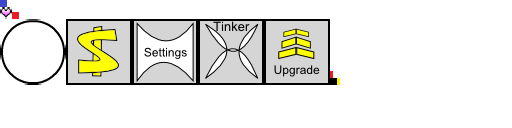
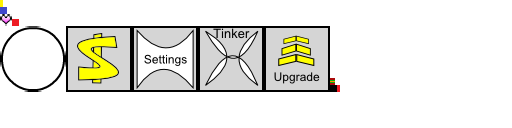
Fixed some stats, and modified some targeting positions. Also fixed upgrading.

Changed region(s): [[0.0, 0.0, 0.6875, 0.7188]]

diff --git a/LibGDXScene2d/my-gdx-game/src/com/me/mygdxgame/Tower.java b/LibGDXScene2d/my-gdx-game/src/com/me/mygdxgame/Tower.java
@@ -114,8 +114,8 @@ public class Tower extends ExtendedActor {
 			
 			if(effects.missileTarget.targetingStrategy == TargetingStrategy.Circle)
 			{
-				((TargetCircle)effects.missileTarget).x1 = (int)targetEnemy.getX();
-				((TargetCircle)effects.missileTarget).y1 = (int) targetEnemy.getY();
+				((TargetCircle)effects.missileTarget).x1 = (int) enemyX;
+				((TargetCircle)effects.missileTarget).y1 = (int) enemyY;
 				m = new Missile(textures.get(3), new Vector2(getX()+getOriginX(), getY()+getOriginY()), new Vector2(enemyX, enemyY), 0.2f, effects);
 			}
 			else if (effects.missileTarget.targetingStrategy == TargetingStrategy.Line)
@@ -132,7 +132,6 @@ public class Tower extends ExtendedActor {
 				int dY = ((TargetLine)effects.missileTarget).y2 - 	((TargetLine)effects.missileTarget).y1;
 				int width = (int)Math.sqrt(Math.pow(dX, 2) + Math.pow(dY, 2)); 
 				m.setWidth(width);
-				m.setHeight(m.getHeight()*2);
 				m.setRotation(this.getRotation());
 			}
 			else if(effects.missileTarget.targetingStrategy == TargetingStrategy.CircleOnSelf)
@@ -155,12 +154,22 @@ public class Tower extends ExtendedActor {
 			return null;
 	}
 	
-	public boolean upgrade(TowerStats newTowerStats)
+	public boolean upgrade(TowerStats newTowerStats, Sprite newTowerSprite, Sprite missileSprite)
 	{	
 		currentLevel++;
 		towerStats = newTowerStats;
 		currentSellPrice += newTowerStats.sellPrice; 
-		//super.setSprite(textures.get(newTowerStats.towerTexture));
+		
+		this.currentSellPrice = towerStats.sellPrice;
+		this.currentReloadTimer = towerStats.reloadTime;
+		this.targetEnemy = null;
+		currentLevel = 1;
+		effects = towerStats.missileEffects;
+		
+		setOrigin(getWidth()/2, getHeight()/2);
+
+		textures.put(3, missileSprite);
+		super.setSprite(newTowerSprite);
 		return true;
 	}
 }

diff --git a/LibGDXScene2d/my-gdx-game/src/com/me/mygdxgame/MyGdxGame.java b/LibGDXScene2d/my-gdx-game/src/com/me/mygdxgame/MyGdxGame.java
@@ -275,6 +275,7 @@ public class MyGdxGame implements ApplicationListener {
         			{
         				stage.addActor(m);
         				missiles.add(m);
+        				m.setZIndex(towers.get(i).getZIndex()-1);
         			}
         		}
         	}
@@ -326,7 +327,7 @@ public class MyGdxGame implements ApplicationListener {
 					}
 					final ExtendedActor visualEffectActor = new ExtendedActor(missiles.get(i).sprite);
 					TargetCircle tC = (TargetCircle)(missiles.get(i).effect.missileTarget);
-					visualEffectActor.setPosition(tC.x1-tC.radius/2, tC.y1 - tC.radius/2);
+					visualEffectActor.setPosition(tC.x1-tC.radius, tC.y1 - tC.radius);
 					visualEffectActor.setWidth(tC.radius*2);
 					visualEffectActor.setHeight(tC.radius*2);
 					visualEffectActor.addAction(sequence(Actions.fadeOut(0.5f), run(new Runnable() {
@@ -612,8 +613,12 @@ public class MyGdxGame implements ApplicationListener {
 				{
 					if(e.x == (int)(towers.get(u).getX()/GameConstants.tileSize) && e.y == (int)(towers.get(u).getY()/GameConstants.tileSize))
 					{
-						towers.get(u).upgrade(towerInfo.get(towers.get(u).towerStats.upgradesTo));
-						MyGdxGame.selectTower(towers.get(u));
+						if(!towers.get(u).towerStats.upgradesTo.equals("null"))
+						{
+							TowerStats newTowerStats = towerInfo.get(towers.get(u).towerStats.upgradesTo);
+							towers.get(u).upgrade(newTowerStats, towersAtlas.createSprite(newTowerStats.towerTexture), miscAtlas.createSprite(newTowerStats.missileTexture));
+							MyGdxGame.selectTower(towers.get(u));
+						}
 					}
 				}
 			}

diff --git a/LibGDXScene2d/my-gdx-game-desktop/src/com/me/mygdxgame/Main.java b/LibGDXScene2d/my-gdx-game-desktop/src/com/me/mygdxgame/Main.java
@@ -23,9 +23,8 @@ public class Main {
 		
 		// Enter path to android asset folder on your computer, or remove this to compile if you want
 		// to compile and no new images have been added.
-		//String path = "D:\\github\\AdaptiveGame\\LibGDXScene2d\\my-gdx-game-android\\assets\\Images";
-		String path = "C:\\Users\\Robin\\github\\AdaptiveGame\\LibGDXScene2d\\my-gdx-game-android\\assets\\Images";
-		//String path = "D:\\Github\\AdaptiveGame\\LibGDXProjects\\AdaptiveTD-android\\assets\\Images";	
+		String path = "D:\\github\\AdaptiveGame\\LibGDXScene2d\\my-gdx-game-android\\assets\\Images";
+		//String path = "C:\\Users\\Robin\\github\\AdaptiveGame\\LibGDXScene2d\\my-gdx-game-android\\assets\\Images";
 		
 		
 		// Make copies in android project
